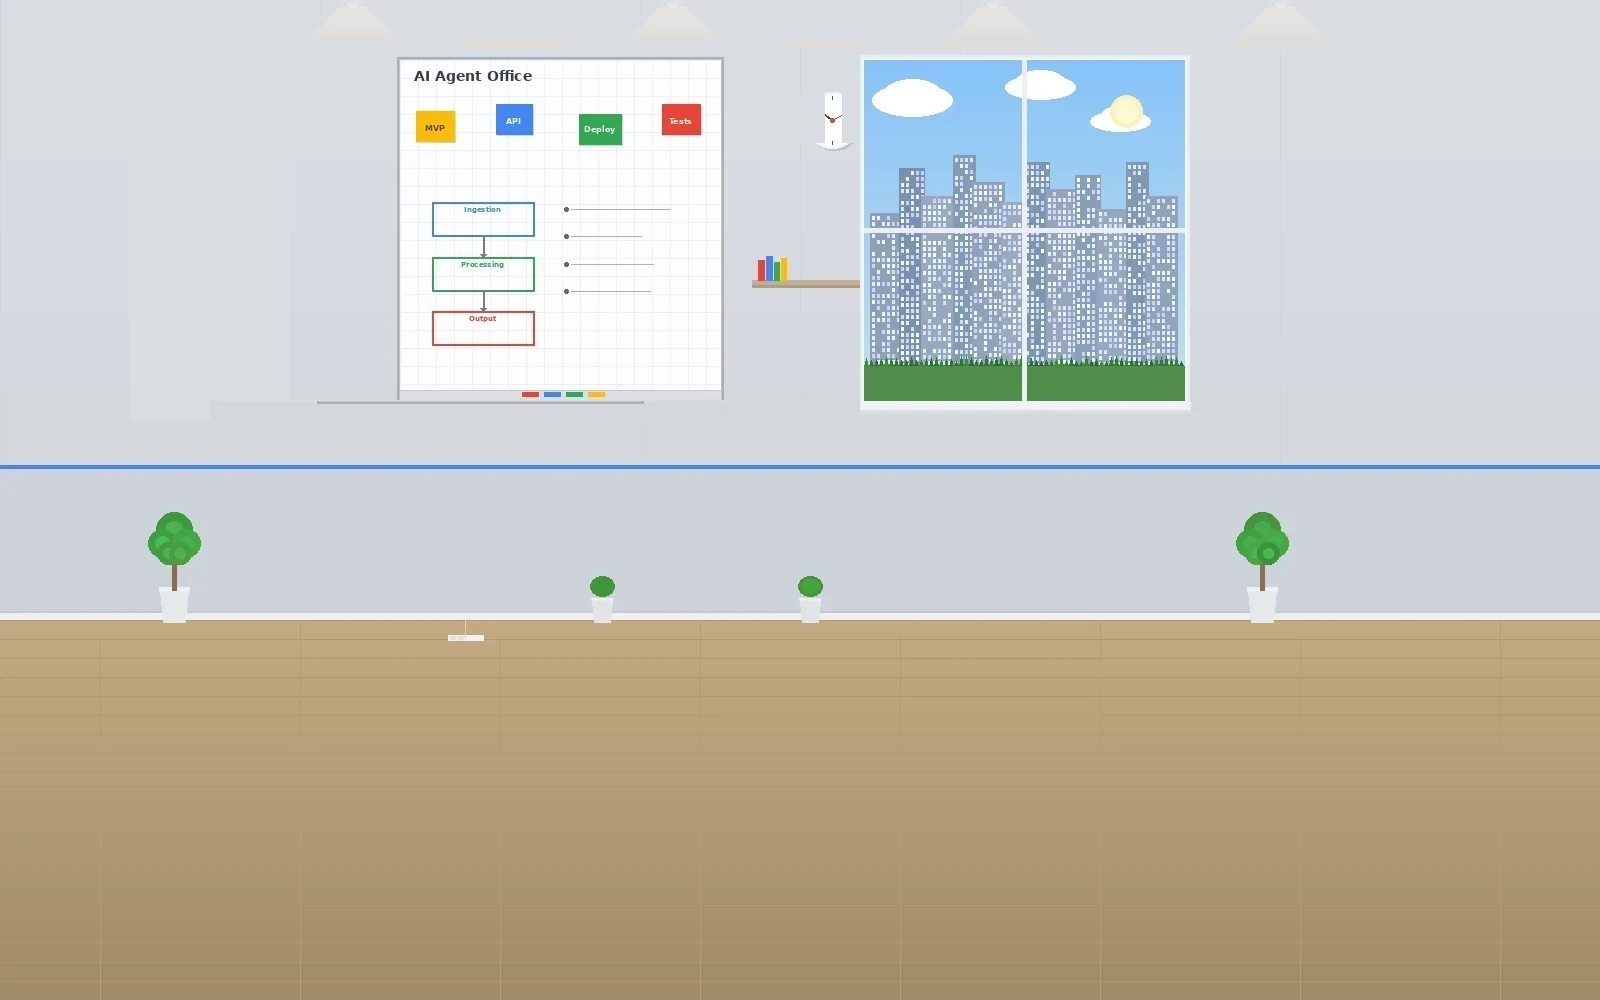
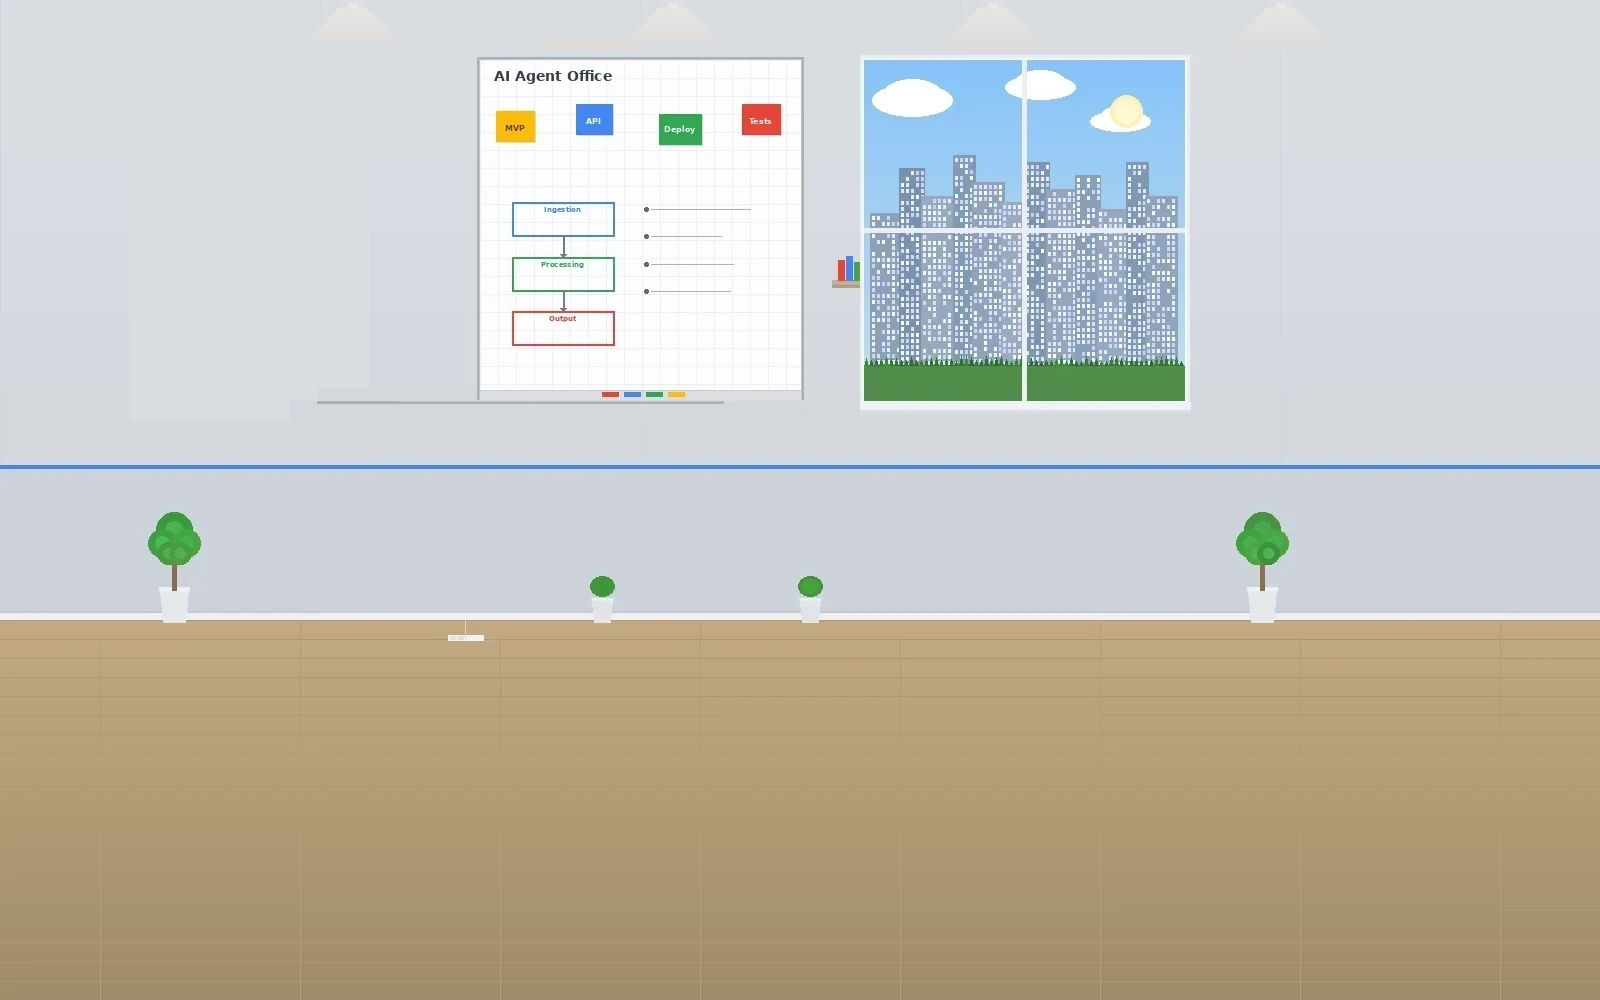
Shift whiteboard 80px right with baseboard continuity repair
Removes stripes picture, shifts whiteboard block, and fills
baseboard gap to maintain continuous trim line.

Changed region(s): [[0.25, 0.031, 0.5625, 0.403], [0.3438, 0.186, 0.375, 0.217]]

diff --git a/src/lib/components/OfficeScene.svelte b/src/lib/components/OfficeScene.svelte
@@ -403,7 +403,7 @@
 		background: #1a1f29;
 		background-image: var(--office-bg);
 		background-size: cover;
-		background-position: 58% center;
+		background-position: center;
 		background-repeat: no-repeat;
 	}
 
